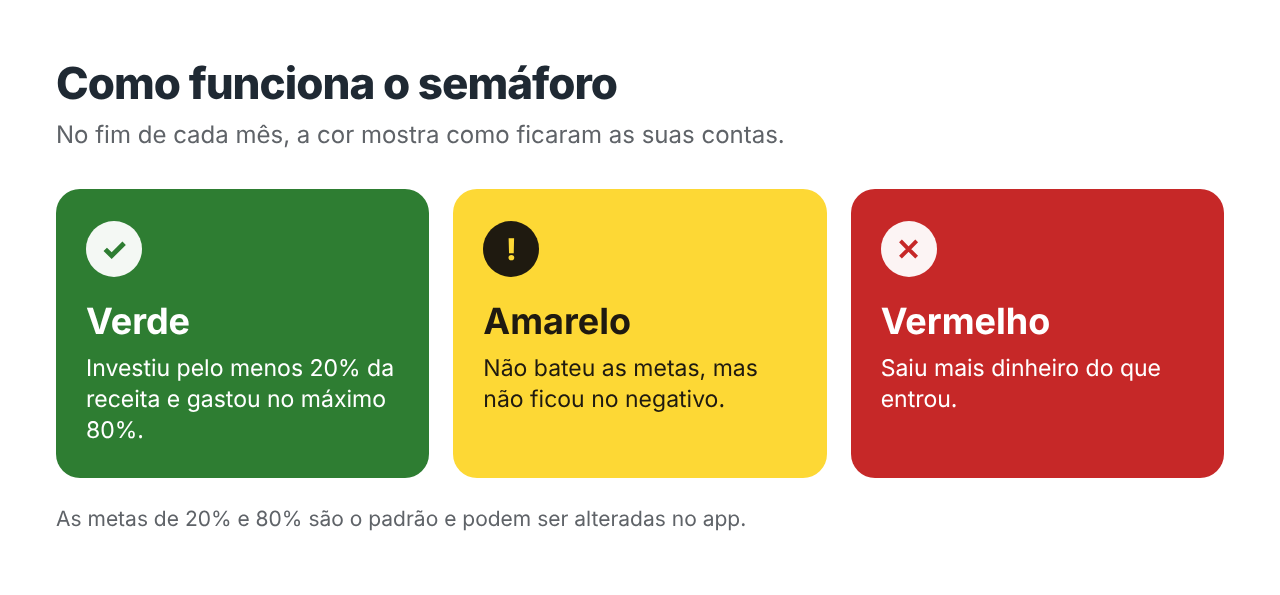
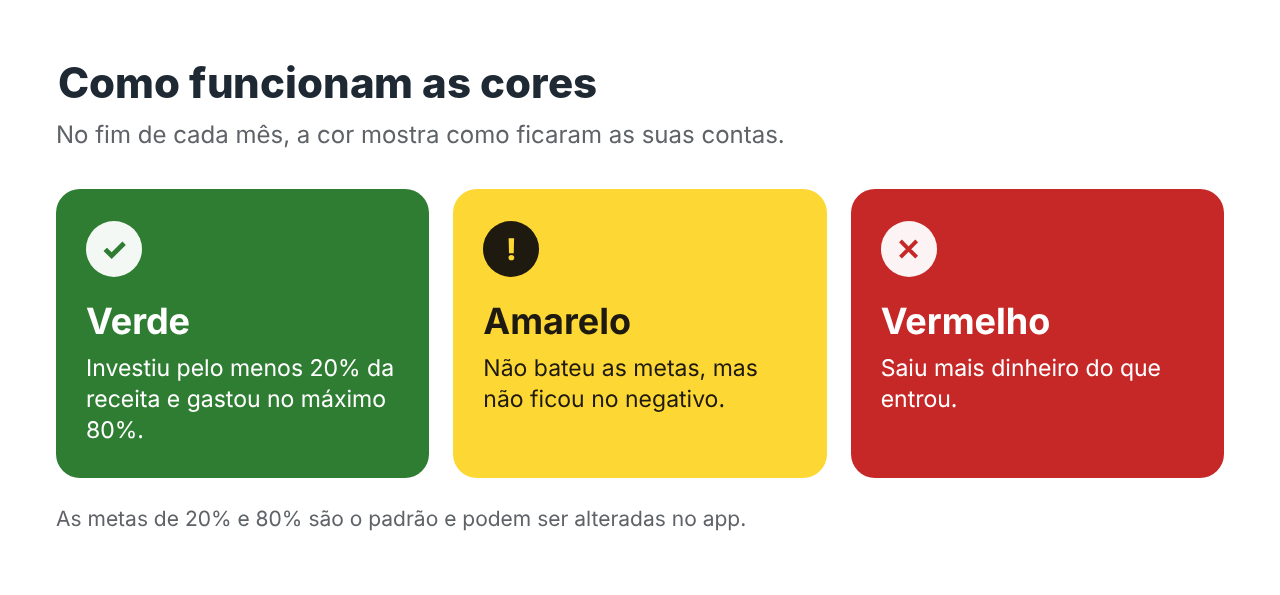
docs: rebrand to Sinaleiro

Changed region(s): [[0.125, 0.0908, 0.5, 0.1815], [0.0312, 0.121, 0.125, 0.1815]]

diff --git a/README.md b/README.md
@@ -13,7 +13,7 @@
 </h3>
 
 <p align="center">
-  <a href="https://sinaleiro-contas.web.app">Conheça o app e teste o semáforo no site</a>
+  <a href="https://sinaleiro-contas.web.app">Conheça o app e teste as cores no site</a>
 </p>
 
 ---
@@ -37,7 +37,7 @@ Sem integração com banco: você lança tudo manualmente e o app nunca pede sen
 ## O que o app faz
 
 - **Receitas, despesas, cartão e investimentos**, com compras parceladas e fatura no mês seguinte
-- **Semáforo do mês** com metas que você pode ajustar e a dica do que falta para o verde
+- **Cor do mês** (verde, amarelo ou vermelho) com metas que você pode ajustar e a dica do que falta para o verde
 - **Aba Início** com o resumo e os gráficos do mês atual
 - **Visão anual** e histórico de qualquer mês
 - **Gráficos** de entradas e saídas do ano e de despesas por categoria do mês
